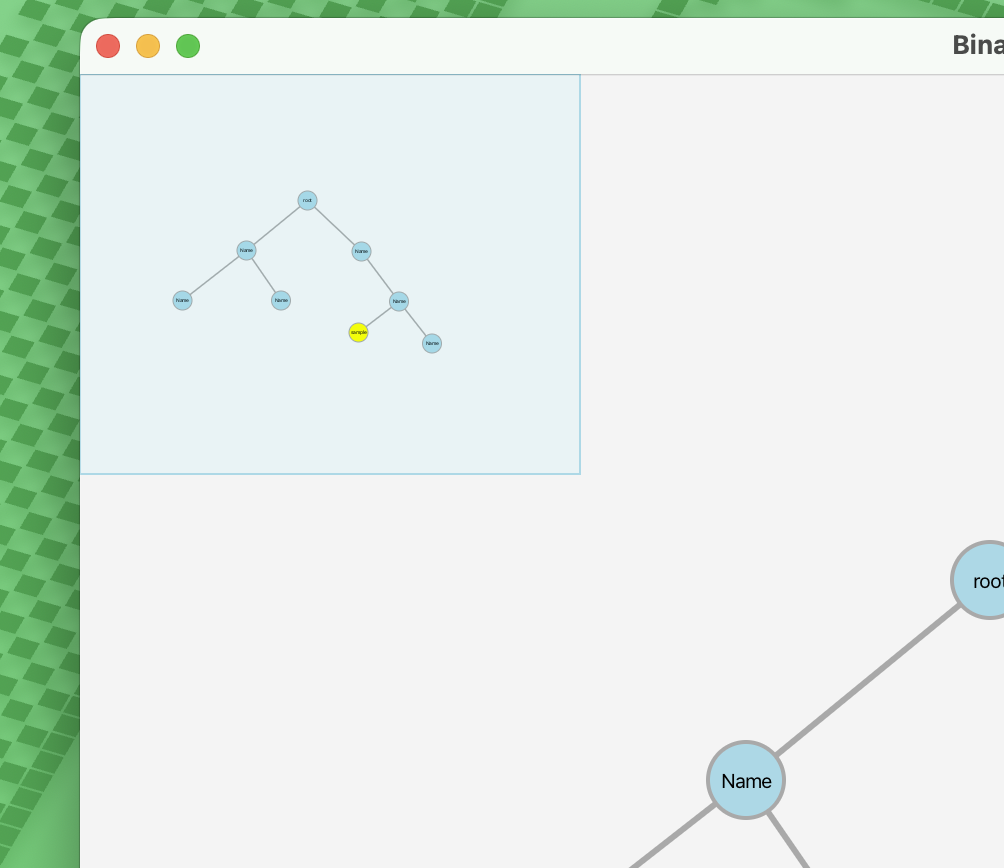
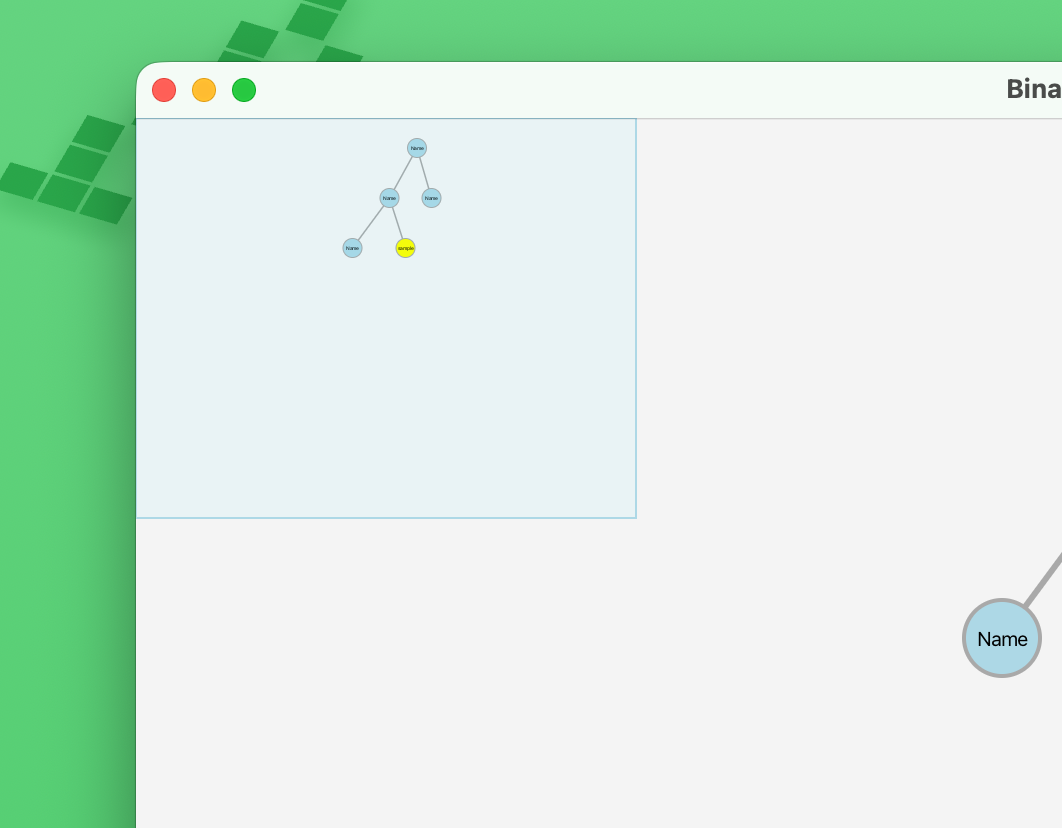
update about me

diff --git a/website/index.html b/website/index.html
@@ -42,7 +42,7 @@
                     <em>&mdash;SOJISIRIKUL</em>
                 </h1>
 
-                <p id="hero-sub">Designer &amp; Developer — based in Saskatoon</p>
+                <p id="hero-sub">Designer &amp; Developer — based in Saskatoon, SK</p>
 
             </div>
         </section>
@@ -64,12 +64,13 @@
 
                     <div class="col-right bio-text">
                         <p>
-                            Hi, I'm <strong>Tanakan Sojisirikul</strong> — a designer
-                            and developer based in <strong>Saskatoon</strong>.
+                            Hi, I'm <strong>Tanakan(Tan) Sojisirikul</strong> — a designer and developer based in <strong>Saskatoon, SK</strong>.
                         </p>
                         <p>
-                            word word word word word word word word word word word
-                            <strong>word word word word word word word word word</strong>
+                            I'm a graduate of the University of Saskatchewan with a <strong>B.Sc. in Computer Science</strong>, focusing on <strong>graphical user interfaces (UI)</strong> and <strong>full-stack web development</strong>, plus a background in Electrical Engineering (B.E.).
+                        </p>
+                        <p>
+                            I have experience developing desktop apps in <strong>JavaFX</strong> and <strong>Java Swing</strong>, building custom UI components and interactive graphics using <strong>MVC architecture</strong>, as well as working on <strong>full-stack web projects</strong> using tools like <strong>React, Node.js, Docker, Express, and databases</strong> such as <strong>MySQL<strong>.
                         </p>
                     </div>
 
@@ -85,7 +86,7 @@
 
                 <div id="project-list">
 
-                    <!-- project 2 -->
+                    <!-- project 1 -->
                     <div class="project-row" data-project="cmpt381_a2">
                         <div class="project-thumb">
                             <img src="images/cmpt381_a2/cover.png" alt="Countdown Timer" />
@@ -98,7 +99,7 @@
                         <span class="project-arrow">↗</span>
                     </div>
 
-                    <!-- project 3 -->
+                    <!-- project 2 -->
                     <div class="project-row" data-project="cmpt381_a3">
                         <div class="project-thumb">
                             <img src="images/cmpt381_a3/cover.png" alt="Interactive Binary Tree Editor" />
@@ -111,7 +112,7 @@
                         <span class="project-arrow">↗</span>
                     </div>
 
-                    <!-- project 4 -->
+                    <!-- project 3 -->
                     <div class="project-row" data-project="cmpt381_a4">
                         <div class="project-thumb">
                             <img src="images/cmpt381_a4/cover.png" alt="Interactive Star Editor" />
@@ -219,7 +220,7 @@
 
             {
                 id: "cmpt381_a3",
-                tag: "Interactive Creation, Handles, Multi-Select, Grouping, and Undo",
+                tag: "MVC, Interaction, and Multiple Views",
                 title: "Interactive <em>Binary Tree Editor</em>",
                 cover: "images/cmpt381_a3/cover.png",
                 meta: [
@@ -262,6 +263,7 @@
                 ],
                 next: ""
             },
+
             // additional projects
         ];
 
